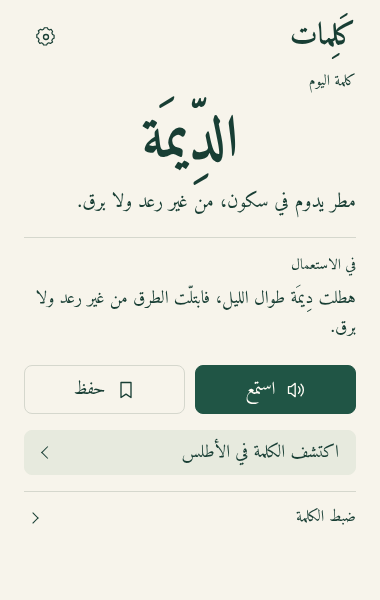
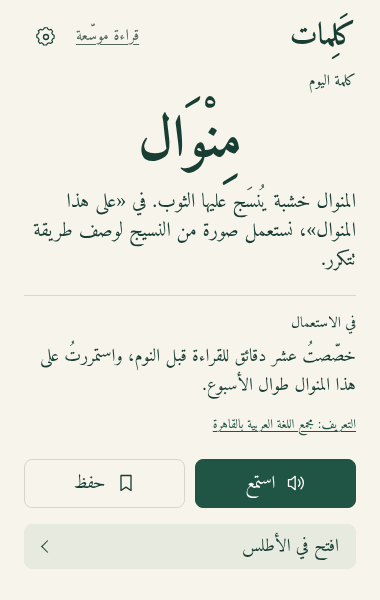
Align pilot website preview and record experience verification

diff --git a/index.html b/index.html
@@ -44,14 +44,14 @@
         <div class="screenshot-stage">
           <img src="assets/extension-popup.png" width="380" height="600" alt="لقطة فعلية لنافذة إضافة كَلِمات، تعرض كلمة اليوم ومعناها ومثالها وأزرار النطق والحفظ والأطلس" fetchpriority="high">
         </div>
-        <figcaption>معاينة من النسخة قيد التطوير. قد تختلف نسخة المتجر.<br><a href="https://github.com/Assem130/Kalimat-365/releases/tag/v0.4.1-beta.1">اطّلع على أحدث إصدار</a></figcaption>
+        <figcaption>معاينة تجربة الأيام الأربعة عشر من نسخة التطوير. قد تختلف نسخة المتجر.<br><a href="https://github.com/Assem130/Kalimat-365/blob/main/docs/store/release-notes-v0.5.1.md">تفاصيل النسخة وحالة النشر</a></figcaption>
       </figure>
     </section>
 
     <section class="experience page-width" id="experience" aria-labelledby="experience-title">
       <div class="section-intro">
         <h2 id="experience-title">اقرأها على مهل.<br>واحتفظ بما يستحق.</h2>
-        <p>افتح الإضافة حين يناسبك. تبدأ بكلمة اليوم، ثم تختار ما تريد أن تأخذه معك.</p>
+        <p>افتح الإضافة حين يناسبك. التجربة الحالية تضم أربع عشرة كلمة مُعتمدة، بكلمة مشتركة لكل يوم. ثم تتكرر الكلمات حتى تُضاف مجموعة مُعتمدة جديدة.</p>
       </div>
       <ol class="experience-list">
         <li><span class="step-number" aria-hidden="true">01</span><div><h3>كلمة، ومعنى، وسياق</h3><p>تجد كلمة عربية مع شرحها ومثال لاستخدامها. استمع إلى نطقها إذا توفر صوت عربي على جهازك.</p></div></li>
@@ -62,11 +62,11 @@
 
     <section class="installation" id="install" aria-labelledby="install-title">
       <div class="install-inner page-width">
-        <div><h2 id="install-title">دع للعربية<br>مكانًا في يومك.</h2><p>ثبّت كَلِمات، ثم افتحها من شريط الإضافات.<br>يمكنك تثبيت أيقونتها لتبقى في متناولك.</p></div>
+        <div><h2 id="install-title">دع للعربية<br>مكانًا في يومك.</h2><p>ثبّت كَلِمات، ثم افتحها من شريط الإضافات.<br>يمكنك تثبيت أيقونتها لتبقى في متناولك. الحزمة العادية تُبقي صفحة التبويب الجديد كما هي.</p></div>
         <div class="install-options">
           <a class="button button-light" href="https://chromewebstore.google.com/detail/kalimat/dlfllbncnbfpnocdaeddejjjldohmefe">أضف إلى <bdi lang="en">Chrome</bdi><span aria-hidden="true">↖</span></a>
-          <p class="release-note">المتجر: <bdi>0.3.0</bdi>. الإصدار التجريبي على GitHub: <bdi>0.4.1-beta.1</bdi>. المعاينة من تجربة الامتداد، وقد تختلف نسخة المتجر.</p>
-          <div class="firefox-note"><h3>تستخدم <bdi lang="en">Firefox</bdi>؟</h3><p>نسخة للاختبار اليدوي متاحة عبر <a href="https://github.com/Assem130/Kalimat-365/releases">إصدارات المشروع</a>. اتبع <a href="https://github.com/Assem130/Kalimat-365/blob/main/docs/DEVELOPMENT.md">دليل التثبيت المؤقت</a>. يُزال هذا التثبيت عند إعادة تشغيل Firefox.</p></div>
+          <p class="release-note">في ٢٢ أكتوبر ٢٠٢٦، أظهرت لوحة المتجر <bdi>0.3.0</bdi> منشورًا و<bdi>0.5.0</bdi> قيد المراجعة. مصدر المشروع الحالي <bdi>0.5.1</bdi> يتضمن إصلاحًا لاحقًا للتخزين، ويحتاج رفعًا منفصلًا. <a href="https://github.com/Assem130/Kalimat-365/releases/tag/v0.4.1-beta.1">التنزيل التجريبي <bdi>0.4.1-beta.1</bdi></a> أقدم من تجربة الأيام الأربعة عشر.</p>
+          <div class="firefox-note"><h3>تستخدم <bdi lang="en">Firefox</bdi>؟</h3><p>يمكن بناء نسخة للاختبار اليدوي من مصدر المشروع. اتبع <a href="https://github.com/Assem130/Kalimat-365/blob/main/docs/DEVELOPMENT.md">دليل البناء والتثبيت المؤقت</a>. يُزال هذا التثبيت عند إعادة تشغيل Firefox.</p></div>
         </div>
       </div>
     </section>
@@ -74,11 +74,11 @@
     <section class="faq page-width" aria-labelledby="faq-title">
       <div class="section-intro"><h2 id="faq-title">أسئلة في محلّها.</h2><p>تفاصيل صغيرة لتعرف كيف تعمل كَلِمات، وأين تبقى بياناتك.</p></div>
       <div class="faq-list">
-        <details><summary>هل أحتاج إلى حساب أو اتصال دائم؟</summary><p>لا تحتاج إلى حساب. تحتاج النسخة التجريبية إلى اتصال وإذن المصادر لاكتشاف كلمات جديدة. تبقى الكلمات السابقة والمحفوظة متاحة دون اتصال؛ إذا لم تتوفر كلمة مكتشفة مخزنة، نوضح أن كلمة جديدة غير متاحة. تختلف نسخة المتجر الحالية.</p></details>
+        <details><summary>هل أحتاج إلى حساب أو اتصال دائم؟</summary><p>لا تحتاج إلى حساب. كلمات التجربة اليومية مُضمّنة في الإضافة، وتعمل دون اتصال أو إذن للمصادر. تتكرر الكلمات الأربع عشرة بعد انتهاء دورتها. اكتشاف كلمات إضافية من مصادر خارجية اختياري، ويحتاج اتصالًا وموافقتك.</p></details>
         <details><summary>لماذا قد لا أسمع النطق؟</summary><p>تستخدم الإضافة الأصوات المتاحة عبر المتصفح والجهاز. قد تحتاج إلى إضافة صوت عربي في إعدادات نظامك، وقد لا تتوفر ميزة النطق في بعض البيئات.</p></details>
-        <details><summary>ماذا عن المصادر الخارجية والخصوصية؟</summary><p>تتضمن النسخة التجريبية مصادر يومية تحتاج موافقتك، مع مراجع معجمية مضمّنة للاستخدام غير التجاري. تعرّف على سلوكها وطلبات الاتصال في <a href="privacy.html">سياسة الخصوصية</a>.</p></details>
+        <details><summary>ماذا عن المصادر الخارجية والخصوصية؟</summary><p>لا تعتمد كلمة اليوم على المصادر الخارجية. يمكنك تفعيل الاكتشاف الإضافي بموافقتك، وتحتفظ الإضافة بمراجع معجمية مضمّنة للاستخدام غير التجاري. تعرّف على طلبات الاتصال والنطق في <a href="privacy.html">سياسة الخصوصية</a>.</p></details>
         <details><summary>أين كلماتي المحفوظة في الموقع السابق؟</summary><p>بيانات الموقع والإضافة منفصلة، ولا تنتقل تلقائيًا بينهما. يمكنك فتح <a href="legacy.html">الموقع السابق</a> من المتصفح نفسه للوصول إلى بياناتك وتصديرها. ويمكنك أيضًا زيارة <a href="word.html">صفحة كلمة اليوم القديمة</a>.</p></details>
-        <details><summary>هل الصورة مطابقة لما سأثبّته؟</summary><p>الصورة تعرض النسخة التجريبية الحالية. قد تتأخر نسخة متجر Chrome عن آخر تغييرات المشروع. راجع <a href="https://github.com/Assem130/Kalimat-365/releases/tag/v0.4.1-beta.1">ملاحظات أحدث إصدار</a> لمعرفة ما يتوفر فيه.</p></details>
+        <details><summary>هل الصورة مطابقة لما سأثبّته؟</summary><p>الصورة تعرض تجربة الأيام الأربعة عشر من نسخة التطوير، وليست تأكيدًا لمحتوى نسخة المتجر. راجع <a href="https://github.com/Assem130/Kalimat-365/blob/main/docs/store/release-notes-v0.5.1.md">تفاصيل النسخة وحالة النشر المسجّلة</a> قبل التثبيت.</p></details>
       </div>
     </section>
   </main>

diff --git a/docs/VERIFICATION.md b/docs/VERIFICATION.md
@@ -1,5 +1,34 @@
 # Extension verification
 
+## Experience refinement of 0.5.1, 22 October 2026
+
+This local candidate builds on `84866e2`. It fixes reader history routing, Explore detail navigation, and keyboard focus after saving. It aligns Arabic typography and themes across surfaces, exposes the daily example and reference in Atlas, and prioritizes reading and personal-data settings. The support website now describes the pilot and uses a current screenshot. No publication occurred.
+
+The baseline reproduced three defects: the reader's My words link opened Today, the selected Explore heading appeared 19,360 pixels below the top, and a delayed Save lost keyboard focus. Three new Atlas integration regressions failed against the baseline and pass against the candidate. Packaged browser tests cover the reader focus defect. Approved pilot text, scheduling, archive data, storage/export formats, background logic, permissions and extension identity have no changes.
+
+| Verification | Result and scope |
+| --- | --- |
+| `python3 verify.py` | 487 JavaScript tests and 11 Python tests pass, plus syntax, vocabulary parity, source replay, supply gates and deterministic packaging. |
+| Packaged Chromium 155.0.8059.84 | All 11 pilot checks pass in each mode: normal popup-to-reader and separate optional new-tab build. Includes legacy state, recall, export/clear/import and browser restart. |
+| `experience.cjs` | All 10 journey groups pass. Covers delayed Save focus, navigation, settings, invalid import retention, themes, reduced motion, 320/390px layouts, actual 200% browser zoom, simulated DST, forced MV3 worker stop/resume and full browser restart. |
+| `storage-recovery.cjs` | All four save/clear cases pass with English on and off. Controlled failed writes preserve pending actions, recover, and survive restart after persistence. |
+| Packaged Firefox 158.0.1 | All 20 checks pass using real Firefox and a temporary addon. Includes saving, dismissal, navigation, themes, runtime backup/clear/import and addon reload. |
+| Native KDE desktop | Installed Linux integration operated the disposable Chromium window. Pinning, actual toolbar popup, Save, popup-to-reader and My words navigation were observed. Final popup width and initial actions fit correctly. |
+| Supporting website | Rendered at 1280, 390 and 320px, with no horizontal overflow or page errors. Navigation, theme toggle, current screenshot and legacy links were checked locally. |
+
+Positive Chromium journey reports record zero page errors and external requests. Every test uses disposable profiles. Firefox uses headless Marionette and document controls, not desktop pointer input. Its backup check uses the runtime API. Native toolbar observation is separate from popup-document automation. Screenshots were inspected across popup, reader, Atlas, themes, narrow layouts, zoom and storage failure states.
+
+Remaining checks: audible Arabic speech, real screen-reader output, native Firefox toolbar and permission/file-picker interactions, reminder delivery, store-installed upgrades, and actual disk/quota exhaustion. AT-SPI returned no Chromium accessibility nodes on this host. Dates are controlled rather than observed overnight. Worker termination is real and forced through CDP, not timed idle suspension. These results do not certify all legacy editorial content.
+
+Evidence and the before/after gallery are in the ignored local folder `agent-docs/codex-maturity-2026-10-22/`. Accepted reports are `pilot-accepted/`, `optional/pilot-accepted/`, `experience-release/`, `firefox/release/`, `recovery-final/`, and `website/`. Earlier diagnostic failures remain separate. Reproduction instructions are in [the E2E guide](../tests/e2e/README.md).
+
+The final normal manifests have no new-tab override. Normal archive SHA256 values:
+
[2 lines of base64/hex data omitted]
+
+The source version remains 0.5.1. This refinement does not change the separately submitted 0.5.0 package or establish store approval.
+
 ## Integrated pilot candidate 0.5.1, 22 October 2026
 
 Integrated the pilot on top of GitHub commits `8e884cb` (legacy storage recovery and cleanup) and `e743da2` (privacy publication). The upstream fix remains intact. Verification also found and fixed Firefox's missing pilot startup script and an Atlas error that hid settings when a new pilot snapshot could not yet be saved.

diff --git a/README.md b/README.md
@@ -20,7 +20,7 @@ The [v0.4.1-beta.1 download](https://github.com/Assem130/Kalimat-365/releases/ta
 
 ## Privacy and help
 
-Profile data stays in browser `storage.local`; no accounts, telemetry, analytics, sync or backend are provided. Pronunciation uses a browser-reported local Arabic voice by default; optional remote speech may send text to the browser's speech provider. Source mode requests optional access to Arabic Wikipedia and Wiktionary. An explicit dictionary lookup can separately request Wiktionary access. Firefox dictionary lookup stays local. Clear-data attempts profile deletion and reminder disabling independently and reports partial or unknown outcomes.
+Profile data stays in browser `storage.local`; no accounts, telemetry, analytics, sync or backend are provided. Pronunciation uses a browser-reported local Arabic voice by default; optional remote speech may send text to the browser's speech provider. Optional additional discovery needs a connection and consent for access to Arabic Wikipedia and Wiktionary. The daily pilot needs neither. An explicit dictionary lookup can separately request Wiktionary access. Firefox dictionary lookup stays local. Clear-data attempts profile deletion and reminder disabling independently and reports partial or unknown outcomes.
 
 - [Extension privacy](extension/PRIVACY.md), [policy source](privacy.html) and [published policy](https://assem130.github.io/Kalimat-365/privacy.html). The policy explains local speech, optional remote speech and dictionary requests separately.
 - [Report a bug](https://github.com/Assem130/Kalimat-365/issues/new?template=bug-report.yml) or [get help](https://github.com/Assem130/Kalimat-365/issues).
@@ -28,7 +28,7 @@ Profile data stays in browser `storage.local`; no accounts, telemetry, analytics
 
 ## Supporting website
 
-The support website introduces the browser extension and provides installation, privacy and help links. Its product preview represents the earlier discovery beta. The [public website](https://assem130.github.io/Kalimat-365/) and Chrome Web Store are separate publication surfaces. Older downloads and store versions can show an earlier experience.
+The support website introduces the browser extension and provides installation, privacy and help links. Its source describes the current pilot and distinguishes it from older downloads and the dated store record. The [public website](https://assem130.github.io/Kalimat-365/) and Chrome Web Store are separate publication surfaces. Source changes do not confirm publication on either surface. Older downloads and store versions can show an earlier experience.
 
 Run `python3 server.py` and open <http://localhost:8000/> (`python` on Windows). The previous website is retained at `legacy.html`; `word.html` links and existing browser data still work. Use `word.html?action=history` for the history and JSON export controls. Website and extension JSON formats remain distinct, with no automatic migration. See [transition details](docs/WEBSITE-TRANSITION.md).
 

diff --git a/docs/store/release-notes-v0.5.1.md b/docs/store/release-notes-v0.5.1.md
@@ -6,7 +6,9 @@ The integration retains the upstream storage-recovery fix from PR #21. A save or
 
 Atlas keeps settings accessible when a new daily card cannot yet be saved. It displays the returned card with the storage warning while keeping preferences tied to confirmed storage.
 
-Firefox now loads the pilot catalog before its background controller. The manifest bootstrap regression exercises a daily assignment through the Firefox browser API model. This is not a native Firefox runtime test.
+Firefox now loads the pilot catalog before its background controller. The manifest bootstrap regression exercises a daily assignment through the Firefox browser API model. Separate packaged runtime checks now pass in headless Firefox, including saving, backup restore and addon reload.
+
+The experience refinement fixes the reader's My words link and restores keyboard focus after saving. Atlas opens a selected word immediately and returns to the same search result. Its daily example and dictionary link are visible without opening a disclosure. The popup, reader and Atlas share their colors and system dark appearance. Settings prioritize reading, reminders and personal data, with additional source discovery kept optional. Approved content, daily scheduling, storage formats, extension identity and permissions are unchanged.
 
 ## Distribution status on 22 October 2026
 
